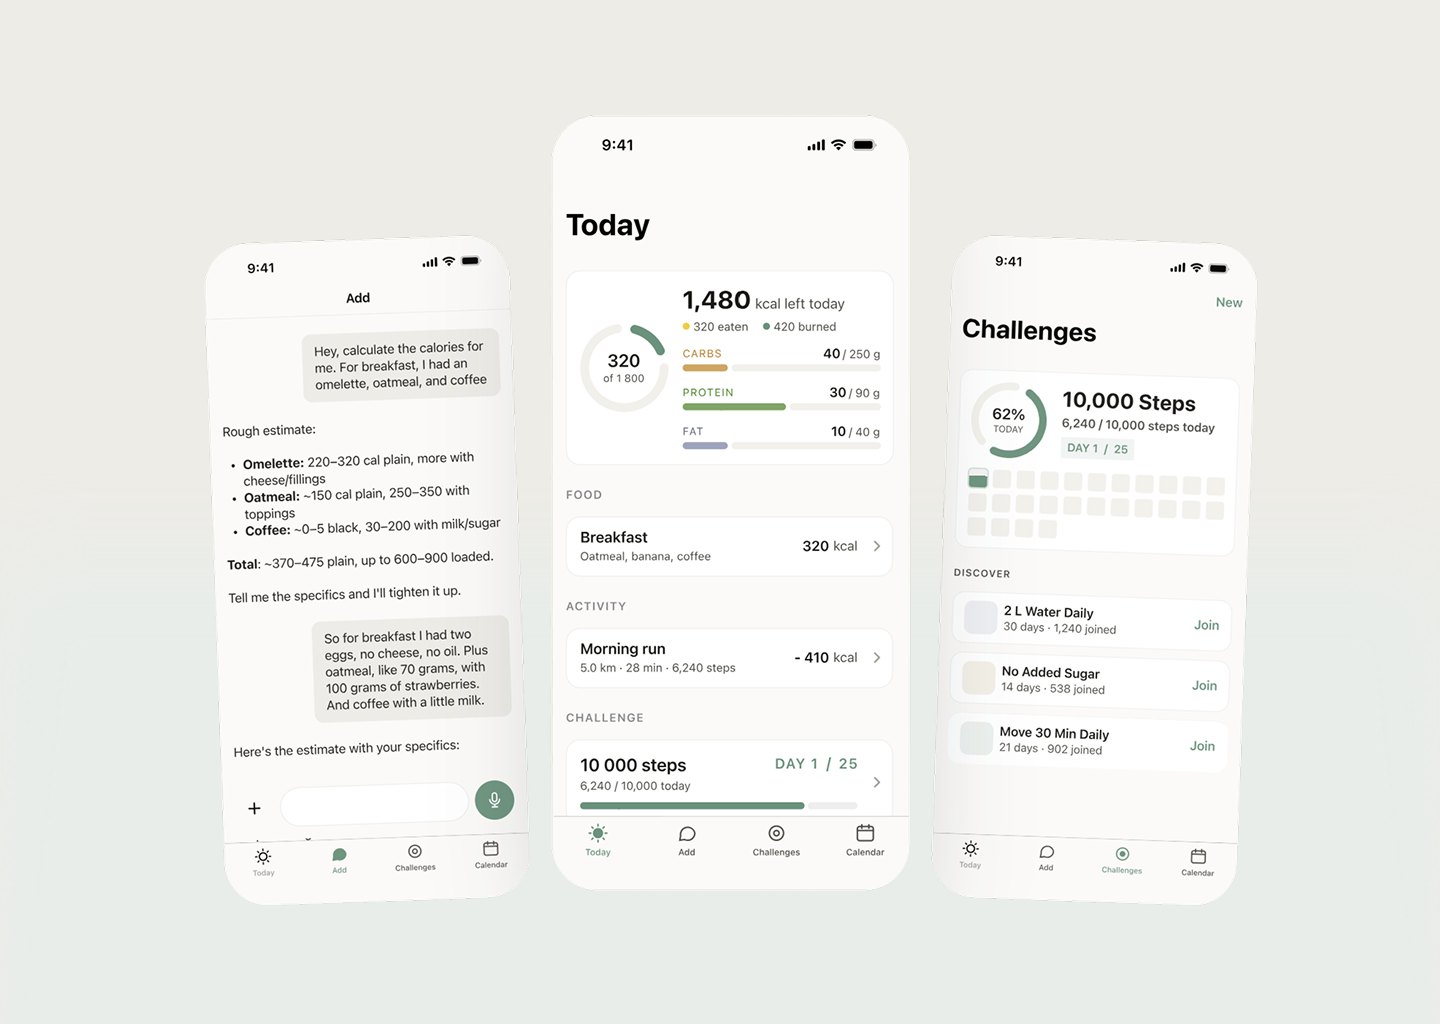
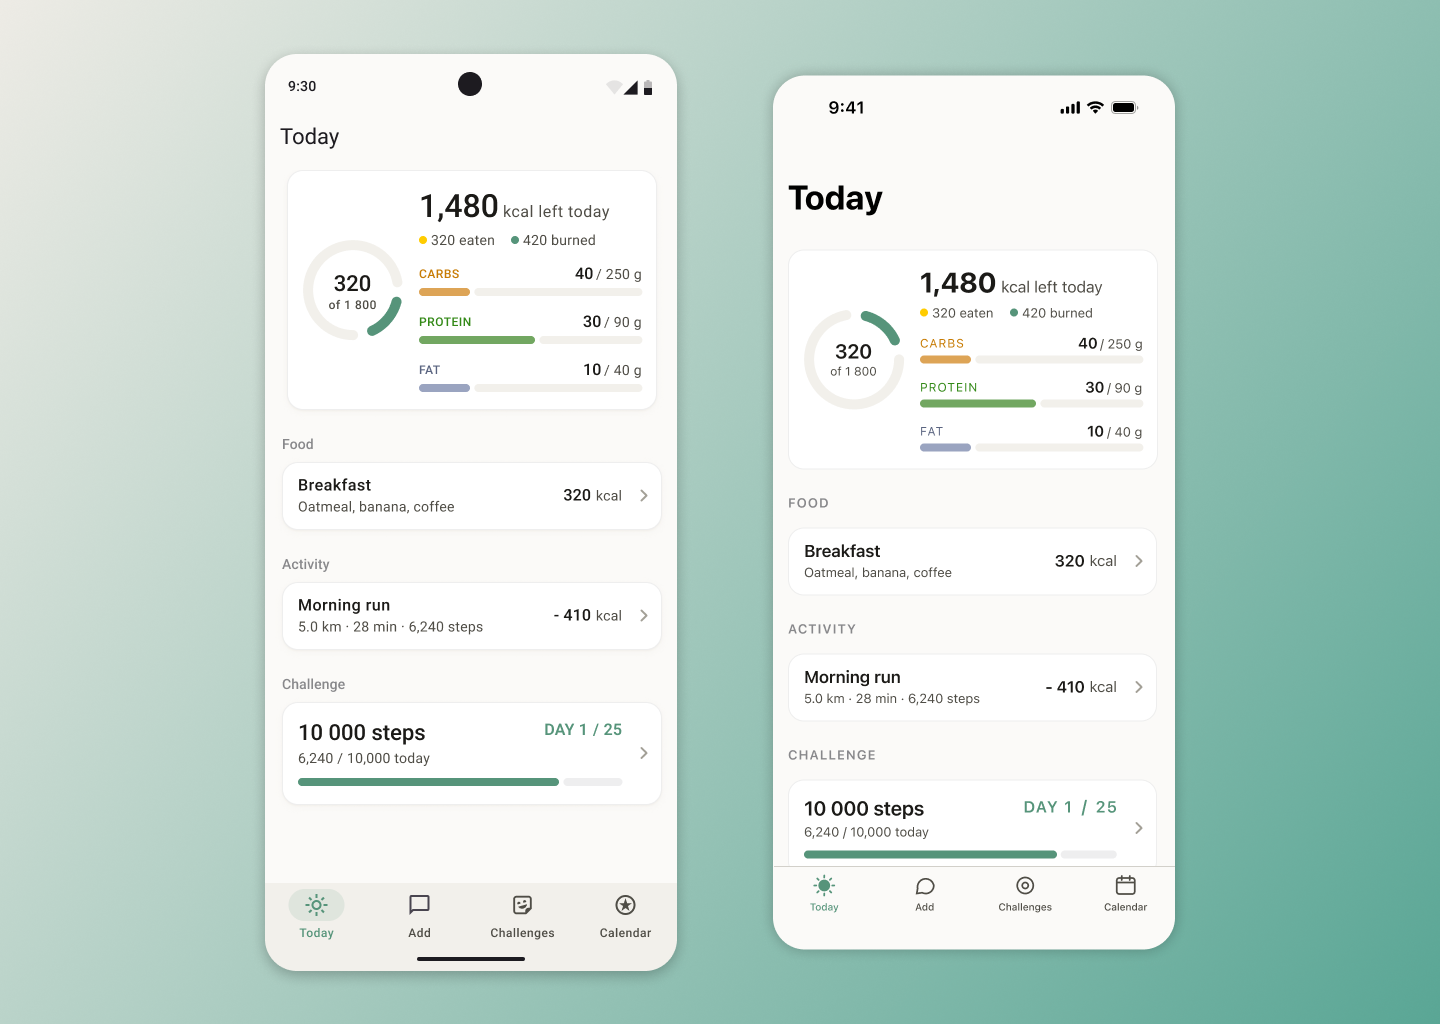
Daylog-cover

diff --git a/projects.html b/projects.html
@@ -75,6 +75,19 @@
         </div>
       </article>
       <article class="card">
+         <div class="hero-preview">
+         <img src="images/daylog-cover.png" alt="DayLog — a simple app for tracking daily activities">
+        </div>
+        <h3>App DayLog</h3>
+        <p>DayLog — a simple app for tracking daily activities</p>
+        <div class="meta">
+          <span class="label">App • AI</span>
+          <a href="project-daylog.html" class="viewlink">View project →</a>
+        </div>
+      </article>
+
+
+      <article class="card">
         <div class="hero-preview">
       <img src="images/project-roots-1.png" alt="Roots Marketplace — storefront and seller CMS">
     </div>

diff --git a/index.html b/index.html
@@ -139,6 +139,17 @@
         </div>
       </article>
       <article class="card">
+         <div class="hero-preview">
+         <img src="images/daylog-cover.png" alt="DayLog — a simple app for tracking daily activities">
+        </div>
+        <h3>App DayLog</h3>
+        <p>DayLog — a simple app for tracking daily activities</p>
+        <div class="meta">
+          <span class="label">App • AI</span>
+          <a href="project-daylog.html" class="viewlink">View project →</a>
+        </div>
+      </article>
+      <article class="card">
         <div class="hero-preview">
       <img src="images/project-roots-1.png" alt="Roots Marketplace — storefront and seller CMS">
     </div>

diff --git a/project-daylog.html b/project-daylog.html
@@ -116,7 +116,11 @@
   .platform-tag{font-family:var(--font-mono);font-size:10.5px;color:var(--muted-foreground);margin-top:8px;display:inline-block;}
 
   /* platform compare */
-  .compare{display:grid;grid-template-columns:1fr 1fr;gap:30px;margin-top:36px;max-width:680px;}
+  .compare{display:grid;grid-template-columns:1fr 1fr;gap:30px;margin-top:36px;max-width:680px; justify-content: center;
+
+    margin-left: auto;
+    margin-right: auto;
+}
   .compare + .compare{margin-top:48px;}
   .pair-cap{grid-column:1 / -1;text-align:center;font-family:var(--font-mono);font-size:11px;letter-spacing:.1em;text-transform:uppercase;color:var(--muted-foreground);margin-top:4px;}
   .compare .col .plat{font-family:var(--font-mono);font-size:11px;letter-spacing:.1em;text-transform:uppercase;color:var(--accent);margin-bottom:14px;display:block;}